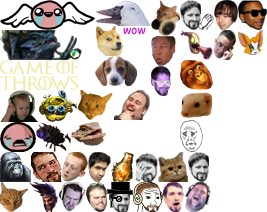
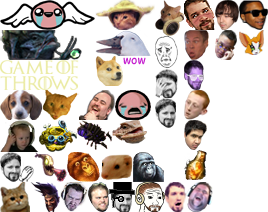
update KINGSLY emote

diff --git a/static/chat/css/style.min.css b/static/chat/css/style.min.css
@@ -1,1 +1,1 @@
-.nano{position:relative;width:100%;height:100%;overflow:hidden}.nano .content{position:absolute;overflow:scroll;overflow-x:hidden;top:0;right:0;bottom:0;left:0}.nano .content:focus{outline:0}.nano .content::-webkit-scrollbar{visibility:hidden}.has-scrollbar .content::-webkit-scrollbar{visibility:visible}.nano:hover>.pane,.pane.active,.pane.flashed{visibility:visible\9;opacity:.99}.nano>.pane{background:rgba(0,0,0,0.3);position:absolute;width:8px;right:5px;top:0;bottom:0;visibility:hidden\9;opacity:.01;-webkit-transition:.2s;-moz-transition:.2s;-o-transition:.2s;transition:.2s}.nano>.pane>.slider{background:#999;position:relative;margin:0 1px;-moz-border-radius:3px;-webkit-border-radius:3px;border-radius:3px}.nano>.pane>.slider:hover,.nano>.pane.active>.slider{background:#eee}.serif{font-family:"Trebuchet MS",sans-serif}.chat{position:relative;width:100%;height:100%;min-width:300px}.chat-output-frame{margin-bottom:35px;height:auto;width:100%;position:absolute;overflow:hidden;top:0;bottom:0;left:0;right:0}.chat-output{width:100%;height:100%}.chat-output .chat-lines{-webkit-backface-visibility:hidden;-webkit-perspective:1000}.chat-lines>div{clear:both;word-wrap:break-word;padding:3px 20px 3px 5px}.chat-lines>div .continue{user-select:none;color:#444}.chat-lines>div i.continue{user-select:none;color:#222}.chat-lines a.user{font-weight:bold;cursor:pointer;font-family:"Trebuchet MS",sans-serif}.chat-lines hr{margin:8px 0}.chat-lines .msg.emote{font-style:italic}.chat-input{width:100%;position:absolute;bottom:0}#chat-top-frame{position:absolute;top:0;left:0;right:0}#chat-bottom-frame{position:absolute;bottom:35px;left:0;right:0}.chat-input>div{margin:5px 0 0 0;background:#2e2e2e}.chat-tools-wrap{position:absolute;right:0;bottom:0;margin:0;user-select:none;-moz-user-select:none;-webkit-user-select:none}.chat-input-wrap{margin:0;margin-right:60px}#user-mute-form,#user-ban-form{margin-top:10px;display:none}#user-mute-form #banTimeLength{width:150px}.chat-input-control{padding:3px 0 0 5px;height:28px;margin:1px;border-radius:3px}.chat-input-control .input{background:0;resize:none;margin:0;padding:0;width:100%;border:0;border-radius:0;box-shadow:none;box-sizing:border-box}.chat-input-control .input:focus{box-shadow:none}.chat-tools-wrap>div{height:30px;overflow:hidden}.chat-tools-wrap .iconbtn{cursor:pointer;width:30px;height:28px;line-height:28px;float:left;display:block;text-align:center;color:#555}.chat-tools-wrap .iconbtn:hover{color:white}.chat-tools-wrap .iconbtn.active{color:white}.chat .chat-lines i[class^="icon-"]{width:16px;line-height:16px;height:16px;margin:0;opacity:1;display:inline-block;vertical-align:middle}.chat-input-control input,.chat-lines{font-family:Helvetica,"Trebuchet MS",Verdana,sans-serif;font-size:13px;line-height:1.5em}.chat-lines time{font-size:11px}.chat-lines a.externallink{color:#02c2ff}.chat-lines a.externallink:visited{color:#004d74}.chat-lines a.externallink:hover,.chat-lines a.externallink:focus{color:#08c}.chat-lines a.nsfw-link{border-bottom:1px dashed red}.chat .chat-lines time,.chat .user-msg i{display:none!important}.chat.chat-time .chat-lines time,.chat.chat-icons .user-msg i,.chat-lines i[class*='icon-subscriber']{display:inline-block!important}.chat-theme-dark{background:#080808;border-radius:0}.chat-theme-dark .chat-input-wrap{border:0}.chat-theme-dark .chat-lines time{color:#414141}.chat-theme-dark .chat-lines>div.highlight time,.chat-lines>div.highlight .continue{color:#838383}.chat-theme-dark .chat-lines>.command-msg,.chat-theme-dark .chat-lines>.error-msg,.chat-theme-dark .chat-lines>.status-msg,.chat-theme-dark .chat-lines>.ui-msg,.chat-theme-dark .chat-lines>.own-msg,.chat-theme-dark .chat-lines>.highlight{color:#dedede}.chat-theme-dark .chat-lines>.broadcast-msg .msg{color:#edea12}.chat-theme-dark .chat-lines>.own-msg{background:linear-gradient(to right,rgba(255,255,255,0.05) 0,rgba(255,255,255,0.05) 90%,rgba(255,255,255,0) 100%)}.chat-theme-dark .chat-lines>.highlight{background:linear-gradient(to right,rgba(0,150,255,0.5) 0,rgba(0,150,255,0) 100%)}.chat-theme-dark .chat-lines>.command-msg,.chat-theme-dark .chat-lines>.own-msg,.chat-theme-dark .chat-lines>.highlight .msg,.chat-theme-dark .chat-lines>.broadcast-msg .msg{text-shadow:1px 1px 0 rgba(0,0,0,0.5)}.chat-theme-dark .chat-input-control{background:#090909;border:0}.chat-theme-dark .chat-input-control input{color:#9e9e9e;background:#090909;text-shadow:none;outline:0}.chat-theme-dark input:input-placeholder{color:#222}.chat-theme-dark input::-webkit-input-placeholder{color:#222}.chat-theme-dark input:-moz-placeholder{color:#222}.chat-theme-dark input::-moz-placeholder{color:#222}.chat-theme-dark input:-ms-input-placeholder{color:#222}.chat-theme-dark .nano>.pane{background:rgba(0,0,0,0.3);width:8px;right:5px;top:5px;bottom:0}.chat-theme-dark .nano>.pane>.slider{background:#999}.chat-theme-dark .nano>.pane>.slider:hover,.chat-theme-dark .nano>.pane.active>.slider{background:#eee}.chat.focus-user .chat-lines>.user-msg{opacity:.3}.chat.focus-user .chat-lines>.user-msg.focused,.chat.focus-user .chat-lines>.user-msg.highlight{opacity:1}.chat .alert{margin-bottom:0;padding-top:4px;padding-bottom:4px;font-size:12px}.hint-popup,.user-tools{width:100%;top:-5px;left:0}.hint-popup>div,.user-tools>div,#chat-broadcasts>div{border-radius:4px;margin:5px 20px 5px 5px}.user-tools .user-tools-user{font-family:"Trebuchet MS",sans-serif}#chat-broadcasts .chat-emote{display:none}.hint-popup>div{box-shadow:0 2px 6px rgba(0,0,0,0.9);padding:0}.hint-popup a:hover{cursor:pointer;color:#6aa7f9}.hint-popup .hidehint,.hint-popup .nexthint{top:0;position:relative;float:right;right:-23px;line-height:20px;-webkit-touch-callout:none;-webkit-user-select:none;-khtml-user-select:none;-moz-user-select:none;-ms-user-select:none;user-select:none;color:#CCC}.hint-popup .hidehint{right:-27px}.hint-popup .hidehint:hover,.hint-popup .nexthint:hover{color:#111}.hint-popup .alert{padding-right:35px}.user-tools-wrap{margin-left:-5px}.user-tools-wrap>a{margin:0 5px}.chat-menu,.user-tools,.hint-popup{display:none;opacity:0}.chat-menu.active,.user-tools.active,.hint-popup.active{display:block;opacity:1}.chat-menu,.user-tools,.hint-popup{font-size:12px}.chat-menu{position:absolute;right:20px;bottom:-5px;width:240px}.chat-menu.active{bottom:0}.chat-menu h5,.user-tools h5{text-shadow:-1px -1px 0 rgba(0,0,0,0.25);user-select:none;-moz-user-select:none;-webkit-user-select:none;background:#4f4f4f;background:linear-gradient(to bottom,#4f4f4f 0,#2e2e2e 100%);border-bottom:1px solid #121212;margin:0;line-height:20px;display:block;padding:5px 15px 5px 10px;border-radius:4px 4px 0 0}.chat-menu .toolbar{width:100%;position:absolute;top:-31px;left:0}.chat-menu li,.chat-menu label{font-size:12px}.chat-menu label{font-weight:normal;margin:0 0 5px 0}.chat-menu label:hover{color:white}.chat-menu .list-wrap,.chat-menu .list-wrap .scrollable{max-height:330px;font-size:.9em}.chat-menu .list-wrap,.user-tools>div{box-shadow:0 2px 6px rgba(0,0,0,0.9);border-radius:0 0 4px 4px;background:rgba(25,25,25,0.9);padding:0}.chat-menu .list-wrap{margin-top:auto}.chat-menu ul,.user-tools .tools{padding:0 10px;margin:10px 0}.chat-menu ul>li:first-child h5{margin-top:0}.chat-menu ul li{text-overflow:ellipsis;overflow:hidden}#chat-user-list ul li{line-height:18px}#chat-user-list h6:first-child{margin-top:10px}#chat-user-list h6{font-weight:bold;margin:0 0 5px 5px}#chat-user-list hr{margin:5px 0}#chat-user-list ul{margin:0}#chat-user-list .user{cursor:pointer;font-family:"Trebuchet MS",sans-serif}.user-tools a#unignoreuser,.user-tools.user-ignored a#ignoreuser{display:none}.user-tools.user-ignored a#unignoreuser{display:inline-block}.chat-menu .nano>.pane{width:8px;right:3px;top:3px;bottom:3px}.chat-login-msg{display:inline-block;width:100%;padding:0 0 0 5px;line-height:30px;color:rgba(255,255,255,0.5);text-shadow:-1px -1px 0 rgba(0,0,0,0.25)}.chat-lines .emotecount{color:white;text-shadow:1px 1px 0 rgba(0,0,0,0.9);font-size:10px;line-height:10px;border-radius:10px;padding:3px 6px;margin:0 0 0 5px;background:#191919}.chat-lines .emotecount{text-shadow:none;animation:emotecount 600ms 1;-webkit-animation:emotecount 600ms 1}@keyframes emotecount{from{color:black;background-color:white}to{color:white;background-color:#333}}@-webkit-keyframes emotecount{from{color:black;background-color:white}to{color:white;background-color:#333}}.chat-lines .emotecount.x5>span{font-size:10px}.chat-lines .emotecount.x10>span{font-size:16px}.chat-lines .emotecount.x20>span{font-size:25px;vertical-align:middle}.chat-lines .emotecount.x30>span{font-size:35px;vertical-align:middle}.chat-lines .emotecount.x50>span{font-size:40px;vertical-align:middle}.chat a.user{color:#cacaca}.chat a.user:hover{color:#fafafa}.chat a.subscriber{color:#488ce7}.chat a.subscriber:hover{color:#6aa7f9}.chat a.flair3{color:#0060ff;text-shadow:1px 1px 0 black}.chat a.flair3:hover{color:#6aa7f9}.chat a.flair8{color:#a427d6;text-shadow:1px 1px 0 black}.chat a.flair8:hover{color:#e564f4}.chat a.vip{color:#4db524}.chat a.vip:hover{color:#4db524}.chat a.bot{color:#e79015}.chat a.bot:hover{color:#e79015}.chat a.admin{color:#b91010}.chat a.admin:hover{color:#f00}.chat .greentext{color:#6ca528}.chat-emote{display:inline-block;position:relative;top:10px;margin:0 2px}.chat-emote.chat-emote-OverRustle{animation:rustle 100ms 7;-webkit-animation:rustle 100ms 7}.chat-emote.chat-emote-OverRustle:hover{animation:rustle1 100ms infinite;-webkit-animation:rustle1 100ms infinite}@keyframes rustle{from{left:0}to{left:2px}}@-webkit-keyframes rustle{from{left:0}to{left:2px}}@keyframes rustle1{from{left:0}to{left:2px}}@-webkit-keyframes rustle1{from{left:0}to{left:2px}}.chat-emote.chat-emote-AngelThump,.chat-emote.chat-emote-Abathur,.chat-emote.chat-emote-GameOfThrows,.chat-emote.chat-emote-DuckerZ,.chat-emote.chat-emote-SoDoge,.chat-emote.chat-emote-FrankerZ,.chat-emote.chat-emote-FeedNathan,.chat-emote.chat-emote-Heimerdonger,.chat-emote.chat-emote-ASLAN,.chat-emote.chat-emote-LUL,.chat-emote.chat-emote-DJAslan,.chat-emote.chat-emote-BibleThump,.chat-emote.chat-emote-INFESTINY,.chat-emote.chat-emote-Hhhehhehe,.chat-emote.chat-emote-Klappa,.chat-emote.chat-emote-SURPRISE,.chat-emote.chat-emote-OverRustle,.chat-emote.chat-emote-FerretLOL,.chat-emote.chat-emote-SoSad,.chat-emote.chat-emote-NoTears,.chat-emote.chat-emote-DestiSenpaii,.chat-emote.chat-emote-WhoahDude,.chat-emote.chat-emote-WORTH,.chat-emote.chat-emote-UWOTM8,.chat-emote.chat-emote-TooSpicy,.chat-emote.chat-emote-Sippy,.chat-emote.chat-emote-OhKrappa,.chat-emote.chat-emote-MotherFuckinGame,.chat-emote.chat-emote-Kappa,.chat-emote.chat-emote-KINGSLY,.chat-emote.chat-emote-Dravewin,.chat-emote.chat-emote-Disgustiny,.chat-emote.chat-emote-DatGeoff,.chat-emote.chat-emote-DappaKappa,.chat-emote.chat-emote-DaFeels,.chat-emote.chat-emote-DURRSTINY,.chat-emote.chat-emote-DESBRO,.chat-emote.chat-emote-CallChad,.chat-emote.chat-emote-CallCatz,.chat-emote.chat-emote-BasedGod,.chat-emote.chat-emote-FIDGETLOL{background-image:url('../img/emoticons.png');background-repeat:no-repeat}.chat-emote.chat-emote-AngelThump{background-position:0 0;width:95px;height:30px;margin-top:-30px}.chat-emote.chat-emote-Abathur{background-position:0 -30px;width:82px;height:30px;margin-top:-30px}.chat-emote.chat-emote-GameOfThrows{background-position:0 -60px;width:79px;height:30px;margin-top:-30px}.chat-emote.chat-emote-DuckerZ{background-position:-95px 0;width:56px;height:26px;margin-top:-26px}.chat-emote.chat-emote-SoDoge{background-position:-95px -26px;width:51px;height:30px;margin-top:-30px}.chat-emote.chat-emote-FrankerZ{background-position:-95px -56px;width:42px;height:30px;margin-top:-30px}.chat-emote.chat-emote-FeedNathan{background-position:0 -90px;width:39px;height:32px;margin-top:-32px}.chat-emote.chat-emote-Heimerdonger{background-position:-39px -90px;width:38px;height:32px;margin-top:-32px}.chat-emote.chat-emote-ASLAN{background-position:-77px -90px;width:37px;height:30px;margin-top:-30px}.chat-emote.chat-emote-LUL{background-position:-114px -90px;width:36px;height:30px;margin-top:-30px}.chat-emote.chat-emote-DJAslan{background-position:-151px 0;width:29px;height:36px;margin-top:-36px}.chat-emote.chat-emote-BibleThump{background-position:0 -122px;width:36px;height:30px;margin-top:-30px}.chat-emote.chat-emote-INFESTINY{background-position:-36px -122px;width:35px;height:30px;margin-top:-30px}.chat-emote.chat-emote-Hhhehhehe{background-position:-71px -122px;width:35px;height:24px;margin-top:-24px}.chat-emote.chat-emote-Klappa{background-position:-180px 0;width:34px;height:30px;margin-top:-30px}.chat-emote.chat-emote-SURPRISE{background-position:-180px -30px;width:33px;height:30px;margin-top:-30px}.chat-emote.chat-emote-OverRustle{background-position:-180px -60px;width:33px;height:30px;margin-top:-30px}.chat-emote.chat-emote-FerretLOL{background-position:-180px -90px;width:33px;height:30px;margin-top:-30px}.chat-emote.chat-emote-SoSad{background-position:-180px -120px;width:23px;height:32px;margin-top:-32px}.chat-emote.chat-emote-NoTears{background-position:0 -152px;width:31px;height:30px;margin-top:-30px}.chat-emote.chat-emote-DestiSenpaii{background-position:-31px -152px;width:31px;height:30px;margin-top:-30px}.chat-emote.chat-emote-WhoahDude{background-position:-151px -36px;width:25px;height:30px;margin-top:-30px}.chat-emote.chat-emote-WORTH{background-position:-151px -66px;width:20px;height:30px;margin-top:-30px}.chat-emote.chat-emote-UWOTM8{background-position:-62px -152px;width:26px;height:30px;margin-top:-30px}.chat-emote.chat-emote-TooSpicy{background-position:-88px -152px;width:23px;height:30px;margin-top:-30px}.chat-emote.chat-emote-Sippy{background-position:-111px -152px;width:24px;height:30px;margin-top:-30px}.chat-emote.chat-emote-OhKrappa{background-position:-135px -152px;width:23px;height:30px;margin-top:-30px}.chat-emote.chat-emote-MotherFuckinGame{background-position:-158px -152px;width:30px;height:30px;margin-top:-30px}.chat-emote.chat-emote-Kappa{background-position:-188px -152px;width:21px;height:30px;margin-top:-30px}.chat-emote.chat-emote-KINGSLY{background-position:0 -182px;width:28px;height:30px;margin-top:-30px}.chat-emote.chat-emote-Dravewin{background-position:-28px -182px;width:30px;height:30px;margin-top:-30px}.chat-emote.chat-emote-Disgustiny{background-position:-58px -182px;width:28px;height:30px;margin-top:-30px}.chat-emote.chat-emote-DatGeoff{background-position:-86px -182px;width:21px;height:30px;margin-top:-30px}.chat-emote.chat-emote-DappaKappa{background-position:-107px -182px;width:26px;height:30px;margin-top:-30px}.chat-emote.chat-emote-DaFeels{background-position:-133px -182px;width:30px;height:30px;margin-top:-30px}.chat-emote.chat-emote-DURRSTINY{background-position:-163px -182px;width:21px;height:30px;margin-top:-30px}.chat-emote.chat-emote-DESBRO{background-position:-184px -182px;width:27px;height:30px;margin-top:-30px}.chat-emote.chat-emote-CallChad{background-position:-214px 0;width:24px;height:30px;margin-top:-30px}.chat-emote.chat-emote-CallCatz{background-position:-214px -30px;width:22px;height:30px;margin-top:-30px}.chat-emote.chat-emote-BasedGod{background-position:-238px 0;width:29px;height:30px;margin-top:-30px}.chat-emote.chat-emote-FIDGETLOL{background-position:-238px -30px;width:25px;height:25px;margin-top:-25px}.icon-subscriber,.icon-subscribert2,.icon-subscribert3,.icon-subscribert4{-webkit-transform:rotate(0deg);-webkit-transition:rotate .2s ease-in-out;-moz-transition:rotate .2s ease-in-out;-o-transition:rotate .2s ease-in-out;transition:rotate .2s ease-in-out}.icon-subscriber:hover,.icon-subscribert2:hover,.icon-subscribert3:hover,.icon-subscribert4:hover{-moz-animation:spin 3s infinite linear;-webkit-animation:spin 3s infinite linear}.icon-vip,.icon-trusted,.icon-subscribert4,.icon-subscribert3,.icon-subscribert2,.icon-subscriber,.icon-status,.icon-notable,.icon-moderator,.icon-info,.icon-evenotable,.icon-error,.icon-contributor,.icon-compchallenge,.icon-command,.icon-bot,.icon-admin{background-image:url('../img/icons.png');background-repeat:no-repeat}.icon-vip:hover{background-position:0 0;width:16px;height:16px}.icon-vip{background-position:-16px 0;width:16px;height:16px}.icon-trusted{background-position:0 -16px;width:16px;height:16px}.icon-subscribert4{background-position:-16px -16px;width:16px;height:16px}.icon-subscribert3{background-position:-32px 0;width:16px;height:16px}.icon-subscribert2{background-position:-32px -16px;width:16px;height:16px}.icon-subscriber{background-position:0 -32px;width:16px;height:16px}.icon-status{background-position:-16px -32px;width:16px;height:16px}.icon-notable{background-position:-32px -32px;width:16px;height:16px}.icon-moderator{background-position:-48px 0;width:16px;height:16px}.icon-info{background-position:-48px -16px;width:16px;height:16px}.icon-evenotable{background-position:-48px -32px;width:16px;height:16px}.icon-error{background-position:0 -48px;width:16px;height:16px}.icon-contributor{background-position:-16px -48px;width:16px;height:16px}.icon-compchallenge:hover{background-position:-32px -48px;width:16px;height:16px}.icon-compchallenge{background-position:-48px -48px;width:16px;height:16px}.icon-command{background-position:-64px 0;width:16px;height:16px}.icon-bot:hover{background-position:-64px -16px;width:16px;height:16px}.icon-bot{background-position:-64px -32px;width:16px;height:16px}.icon-admin:hover{background-position:-64px -48px;width:16px;height:16px}.icon-admin{background-position:0 -64px;width:16px;height:16px}
+.nano{position:relative;width:100%;height:100%;overflow:hidden}.nano .content{position:absolute;overflow:scroll;overflow-x:hidden;top:0;right:0;bottom:0;left:0}.nano .content:focus{outline:0}.nano .content::-webkit-scrollbar{visibility:hidden}.has-scrollbar .content::-webkit-scrollbar{visibility:visible}.nano:hover>.pane,.pane.active,.pane.flashed{visibility:visible\9;opacity:.99}.nano>.pane{background:rgba(0,0,0,0.3);position:absolute;width:8px;right:5px;top:0;bottom:0;visibility:hidden\9;opacity:.01;-webkit-transition:.2s;-moz-transition:.2s;-o-transition:.2s;transition:.2s}.nano>.pane>.slider{background:#999;position:relative;margin:0 1px;-moz-border-radius:3px;-webkit-border-radius:3px;border-radius:3px}.nano>.pane>.slider:hover,.nano>.pane.active>.slider{background:#eee}.serif{font-family:"Trebuchet MS",sans-serif}.chat{position:relative;width:100%;height:100%;min-width:300px}.chat-output-frame{margin-bottom:35px;height:auto;width:100%;position:absolute;overflow:hidden;top:0;bottom:0;left:0;right:0}.chat-output{width:100%;height:100%}.chat-output .chat-lines{-webkit-backface-visibility:hidden;-webkit-perspective:1000}.chat-lines>div{clear:both;word-wrap:break-word;padding:3px 20px 3px 5px}.chat-lines>div .continue{user-select:none;color:#444}.chat-lines>div i.continue{user-select:none;color:#222}.chat-lines a.user{font-weight:bold;cursor:pointer;font-family:"Trebuchet MS",sans-serif}.chat-lines hr{margin:8px 0}.chat-lines .msg.emote{font-style:italic}.chat-input{width:100%;position:absolute;bottom:0}#chat-top-frame{position:absolute;top:0;left:0;right:0}#chat-bottom-frame{position:absolute;bottom:35px;left:0;right:0}.chat-input>div{margin:5px 0 0 0;background:#2e2e2e}.chat-tools-wrap{position:absolute;right:0;bottom:0;margin:0;user-select:none;-moz-user-select:none;-webkit-user-select:none}.chat-input-wrap{margin:0;margin-right:60px}#user-mute-form,#user-ban-form{margin-top:10px;display:none}#user-mute-form #banTimeLength{width:150px}.chat-input-control{padding:3px 0 0 5px;height:28px;margin:1px;border-radius:3px}.chat-input-control .input{background:0;resize:none;margin:0;padding:0;width:100%;border:0;border-radius:0;box-shadow:none;box-sizing:border-box}.chat-input-control .input:focus{box-shadow:none}.chat-tools-wrap>div{height:30px;overflow:hidden}.chat-tools-wrap .iconbtn{cursor:pointer;width:30px;height:28px;line-height:28px;float:left;display:block;text-align:center;color:#555}.chat-tools-wrap .iconbtn:hover{color:white}.chat-tools-wrap .iconbtn.active{color:white}.chat .chat-lines i[class^="icon-"]{width:16px;line-height:16px;height:16px;margin:0;opacity:1;display:inline-block;vertical-align:middle}.chat-input-control input,.chat-lines{font-family:Helvetica,"Trebuchet MS",Verdana,sans-serif;font-size:13px;line-height:1.5em}.chat-lines time{font-size:11px}.chat-lines a.externallink{color:#02c2ff}.chat-lines a.externallink:visited{color:#004d74}.chat-lines a.externallink:hover,.chat-lines a.externallink:focus{color:#08c}.chat-lines a.nsfw-link{border-bottom:1px dashed red}.chat .chat-lines time,.chat .user-msg i{display:none!important}.chat.chat-time .chat-lines time,.chat.chat-icons .user-msg i,.chat-lines i[class*='icon-subscriber']{display:inline-block!important}.chat-theme-dark{background:#080808;border-radius:0}.chat-theme-dark .chat-input-wrap{border:0}.chat-theme-dark .chat-lines time{color:#414141}.chat-theme-dark .chat-lines>div.highlight time,.chat-lines>div.highlight .continue{color:#838383}.chat-theme-dark .chat-lines>.command-msg,.chat-theme-dark .chat-lines>.error-msg,.chat-theme-dark .chat-lines>.status-msg,.chat-theme-dark .chat-lines>.ui-msg,.chat-theme-dark .chat-lines>.own-msg,.chat-theme-dark .chat-lines>.highlight{color:#dedede}.chat-theme-dark .chat-lines>.broadcast-msg .msg{color:#edea12}.chat-theme-dark .chat-lines>.own-msg{background:linear-gradient(to right,rgba(255,255,255,0.05) 0,rgba(255,255,255,0.05) 90%,rgba(255,255,255,0) 100%)}.chat-theme-dark .chat-lines>.highlight{background:linear-gradient(to right,rgba(0,150,255,0.5) 0,rgba(0,150,255,0) 100%)}.chat-theme-dark .chat-lines>.command-msg,.chat-theme-dark .chat-lines>.own-msg,.chat-theme-dark .chat-lines>.highlight .msg,.chat-theme-dark .chat-lines>.broadcast-msg .msg{text-shadow:1px 1px 0 rgba(0,0,0,0.5)}.chat-theme-dark .chat-input-control{background:#090909;border:0}.chat-theme-dark .chat-input-control input{color:#9e9e9e;background:#090909;text-shadow:none;outline:0}.chat-theme-dark input:input-placeholder{color:#222}.chat-theme-dark input::-webkit-input-placeholder{color:#222}.chat-theme-dark input:-moz-placeholder{color:#222}.chat-theme-dark input::-moz-placeholder{color:#222}.chat-theme-dark input:-ms-input-placeholder{color:#222}.chat-theme-dark .nano>.pane{background:rgba(0,0,0,0.3);width:8px;right:5px;top:5px;bottom:0}.chat-theme-dark .nano>.pane>.slider{background:#999}.chat-theme-dark .nano>.pane>.slider:hover,.chat-theme-dark .nano>.pane.active>.slider{background:#eee}.chat.focus-user .chat-lines>.user-msg{opacity:.3}.chat.focus-user .chat-lines>.user-msg.focused,.chat.focus-user .chat-lines>.user-msg.highlight{opacity:1}.chat .alert{margin-bottom:0;padding-top:4px;padding-bottom:4px;font-size:12px}.hint-popup,.user-tools{width:100%;top:-5px;left:0}.hint-popup>div,.user-tools>div,#chat-broadcasts>div{border-radius:4px;margin:5px 20px 5px 5px}.user-tools .user-tools-user{font-family:"Trebuchet MS",sans-serif}#chat-broadcasts .chat-emote{display:none}.hint-popup>div{box-shadow:0 2px 6px rgba(0,0,0,0.9);padding:0}.hint-popup a:hover{cursor:pointer;color:#6aa7f9}.hint-popup .hidehint,.hint-popup .nexthint{top:0;position:relative;float:right;right:-23px;line-height:20px;-webkit-touch-callout:none;-webkit-user-select:none;-khtml-user-select:none;-moz-user-select:none;-ms-user-select:none;user-select:none;color:#CCC}.hint-popup .hidehint{right:-27px}.hint-popup .hidehint:hover,.hint-popup .nexthint:hover{color:#111}.hint-popup .alert{padding-right:35px}.user-tools-wrap{margin-left:-5px}.user-tools-wrap>a{margin:0 5px}.chat-menu,.user-tools,.hint-popup{display:none;opacity:0}.chat-menu.active,.user-tools.active,.hint-popup.active{display:block;opacity:1}.chat-menu,.user-tools,.hint-popup{font-size:12px}.chat-menu{position:absolute;right:20px;bottom:-5px;width:240px}.chat-menu.active{bottom:0}.chat-menu h5,.user-tools h5{text-shadow:-1px -1px 0 rgba(0,0,0,0.25);user-select:none;-moz-user-select:none;-webkit-user-select:none;background:#4f4f4f;background:linear-gradient(to bottom,#4f4f4f 0,#2e2e2e 100%);border-bottom:1px solid #121212;margin:0;line-height:20px;display:block;padding:5px 15px 5px 10px;border-radius:4px 4px 0 0}.chat-menu .toolbar{width:100%;position:absolute;top:-31px;left:0}.chat-menu li,.chat-menu label{font-size:12px}.chat-menu label{font-weight:normal;margin:0 0 5px 0}.chat-menu label:hover{color:white}.chat-menu .list-wrap,.chat-menu .list-wrap .scrollable{max-height:330px;font-size:.9em}.chat-menu .list-wrap,.user-tools>div{box-shadow:0 2px 6px rgba(0,0,0,0.9);border-radius:0 0 4px 4px;background:rgba(25,25,25,0.9);padding:0}.chat-menu .list-wrap{margin-top:auto}.chat-menu ul,.user-tools .tools{padding:0 10px;margin:10px 0}.chat-menu ul>li:first-child h5{margin-top:0}.chat-menu ul li{text-overflow:ellipsis;overflow:hidden}#chat-user-list ul li{line-height:18px}#chat-user-list h6:first-child{margin-top:10px}#chat-user-list h6{font-weight:bold;margin:0 0 5px 5px}#chat-user-list hr{margin:5px 0}#chat-user-list ul{margin:0}#chat-user-list .user{cursor:pointer;font-family:"Trebuchet MS",sans-serif}.user-tools a#unignoreuser,.user-tools.user-ignored a#ignoreuser{display:none}.user-tools.user-ignored a#unignoreuser{display:inline-block}.chat-menu .nano>.pane{width:8px;right:3px;top:3px;bottom:3px}.chat-login-msg{display:inline-block;width:100%;padding:0 0 0 5px;line-height:30px;color:rgba(255,255,255,0.5);text-shadow:-1px -1px 0 rgba(0,0,0,0.25)}.chat-lines .emotecount{color:white;text-shadow:1px 1px 0 rgba(0,0,0,0.9);font-size:10px;line-height:10px;border-radius:10px;padding:3px 6px;margin:0 0 0 5px;background:#191919}.chat-lines .emotecount{text-shadow:none;animation:emotecount 600ms 1;-webkit-animation:emotecount 600ms 1}@keyframes emotecount{from{color:black;background-color:white}to{color:white;background-color:#333}}@-webkit-keyframes emotecount{from{color:black;background-color:white}to{color:white;background-color:#333}}.chat-lines .emotecount.x5>span{font-size:10px}.chat-lines .emotecount.x10>span{font-size:16px}.chat-lines .emotecount.x20>span{font-size:25px;vertical-align:middle}.chat-lines .emotecount.x30>span{font-size:35px;vertical-align:middle}.chat-lines .emotecount.x50>span{font-size:40px;vertical-align:middle}.chat a.user{color:#cacaca}.chat a.user:hover{color:#fafafa}.chat a.subscriber{color:#488ce7}.chat a.subscriber:hover{color:#6aa7f9}.chat a.flair3{color:#0060ff;text-shadow:1px 1px 0 black}.chat a.flair3:hover{color:#6aa7f9}.chat a.flair8{color:#a427d6;text-shadow:1px 1px 0 black}.chat a.flair8:hover{color:#e564f4}.chat a.vip{color:#4db524}.chat a.vip:hover{color:#4db524}.chat a.bot{color:#e79015}.chat a.bot:hover{color:#e79015}.chat a.admin{color:#b91010}.chat a.admin:hover{color:#f00}.chat .greentext{color:#6ca528}.chat-emote{display:inline-block;position:relative;top:10px;margin:0 2px}.chat-emote.chat-emote-OverRustle{animation:rustle 100ms 7;-webkit-animation:rustle 100ms 7}.chat-emote.chat-emote-OverRustle:hover{animation:rustle1 100ms infinite;-webkit-animation:rustle1 100ms infinite}@keyframes rustle{from{left:0}to{left:2px}}@-webkit-keyframes rustle{from{left:0}to{left:2px}}@keyframes rustle1{from{left:0}to{left:2px}}@-webkit-keyframes rustle1{from{left:0}to{left:2px}}.chat-emote.chat-emote-AngelThump,.chat-emote.chat-emote-Abathur,.chat-emote.chat-emote-GameOfThrows,.chat-emote.chat-emote-KINGSLY,.chat-emote.chat-emote-DuckerZ,.chat-emote.chat-emote-SoDoge,.chat-emote.chat-emote-FrankerZ,.chat-emote.chat-emote-FeedNathan,.chat-emote.chat-emote-Heimerdonger,.chat-emote.chat-emote-ASLAN,.chat-emote.chat-emote-LUL,.chat-emote.chat-emote-DJAslan,.chat-emote.chat-emote-BibleThump,.chat-emote.chat-emote-INFESTINY,.chat-emote.chat-emote-Hhhehhehe,.chat-emote.chat-emote-Klappa,.chat-emote.chat-emote-SURPRISE,.chat-emote.chat-emote-OverRustle,.chat-emote.chat-emote-FerretLOL,.chat-emote.chat-emote-SoSad,.chat-emote.chat-emote-NoTears,.chat-emote.chat-emote-DestiSenpaii,.chat-emote.chat-emote-WhoahDude,.chat-emote.chat-emote-WORTH,.chat-emote.chat-emote-UWOTM8,.chat-emote.chat-emote-TooSpicy,.chat-emote.chat-emote-Sippy,.chat-emote.chat-emote-OhKrappa,.chat-emote.chat-emote-MotherFuckinGame,.chat-emote.chat-emote-Kappa,.chat-emote.chat-emote-Dravewin,.chat-emote.chat-emote-Disgustiny,.chat-emote.chat-emote-DatGeoff,.chat-emote.chat-emote-DappaKappa,.chat-emote.chat-emote-DaFeels,.chat-emote.chat-emote-DURRSTINY,.chat-emote.chat-emote-DESBRO,.chat-emote.chat-emote-CallChad,.chat-emote.chat-emote-CallCatz,.chat-emote.chat-emote-BasedGod,.chat-emote.chat-emote-FIDGETLOL{background-image:url('../img/emoticons.png');background-repeat:no-repeat}.chat-emote.chat-emote-AngelThump{background-position:0 0;width:95px;height:30px;margin-top:-30px}.chat-emote.chat-emote-Abathur{background-position:0 -30px;width:82px;height:30px;margin-top:-30px}.chat-emote.chat-emote-GameOfThrows{background-position:0 -60px;width:79px;height:30px;margin-top:-30px}.chat-emote.chat-emote-KINGSLY{background-position:-95px 0;width:60px;height:30px;margin-top:-30px}.chat-emote.chat-emote-DuckerZ{background-position:-95px -30px;width:56px;height:26px;margin-top:-26px}.chat-emote.chat-emote-SoDoge{background-position:-95px -56px;width:51px;height:30px;margin-top:-30px}.chat-emote.chat-emote-FrankerZ{background-position:0 -90px;width:42px;height:30px;margin-top:-30px}.chat-emote.chat-emote-FeedNathan{background-position:0 -120px;width:39px;height:32px;margin-top:-32px}.chat-emote.chat-emote-Heimerdonger{background-position:-39px -120px;width:38px;height:32px;margin-top:-32px}.chat-emote.chat-emote-ASLAN{background-position:-42px -90px;width:37px;height:30px;margin-top:-30px}.chat-emote.chat-emote-LUL{background-position:-79px -90px;width:36px;height:30px;margin-top:-30px}.chat-emote.chat-emote-DJAslan{background-position:-155px 0;width:29px;height:36px;margin-top:-36px}.chat-emote.chat-emote-BibleThump{background-position:-115px -90px;width:36px;height:30px;margin-top:-30px}.chat-emote.chat-emote-INFESTINY{background-position:-77px -120px;width:35px;height:30px;margin-top:-30px}.chat-emote.chat-emote-Hhhehhehe{background-position:-112px -120px;width:35px;height:24px;margin-top:-24px}.chat-emote.chat-emote-Klappa{background-position:0 -152px;width:34px;height:30px;margin-top:-30px}.chat-emote.chat-emote-SURPRISE{background-position:-34px -152px;width:33px;height:30px;margin-top:-30px}.chat-emote.chat-emote-OverRustle{background-position:-67px -152px;width:33px;height:30px;margin-top:-30px}.chat-emote.chat-emote-FerretLOL{background-position:-100px -152px;width:33px;height:30px;margin-top:-30px}.chat-emote.chat-emote-SoSad{background-position:-155px -36px;width:23px;height:32px;margin-top:-32px}.chat-emote.chat-emote-NoTears{background-position:-133px -152px;width:31px;height:30px;margin-top:-30px}.chat-emote.chat-emote-DestiSenpaii{background-position:-184px 0;width:31px;height:30px;margin-top:-30px}.chat-emote.chat-emote-WhoahDude{background-position:-184px -30px;width:25px;height:30px;margin-top:-30px}.chat-emote.chat-emote-WORTH{background-position:-184px -60px;width:20px;height:30px;margin-top:-30px}.chat-emote.chat-emote-UWOTM8{background-position:-184px -90px;width:26px;height:30px;margin-top:-30px}.chat-emote.chat-emote-TooSpicy{background-position:-184px -120px;width:23px;height:30px;margin-top:-30px}.chat-emote.chat-emote-Sippy{background-position:-184px -150px;width:24px;height:30px;margin-top:-30px}.chat-emote.chat-emote-OhKrappa{background-position:-155px -68px;width:23px;height:30px;margin-top:-30px}.chat-emote.chat-emote-MotherFuckinGame{background-position:0 -182px;width:30px;height:30px;margin-top:-30px}.chat-emote.chat-emote-Kappa{background-position:-155px -98px;width:21px;height:30px;margin-top:-30px}.chat-emote.chat-emote-Dravewin{background-position:-30px -182px;width:30px;height:30px;margin-top:-30px}.chat-emote.chat-emote-Disgustiny{background-position:-60px -182px;width:28px;height:30px;margin-top:-30px}.chat-emote.chat-emote-DatGeoff{background-position:-88px -182px;width:21px;height:30px;margin-top:-30px}.chat-emote.chat-emote-DappaKappa{background-position:-109px -182px;width:26px;height:30px;margin-top:-30px}.chat-emote.chat-emote-DaFeels{background-position:-135px -182px;width:30px;height:30px;margin-top:-30px}.chat-emote.chat-emote-DURRSTINY{background-position:-165px -182px;width:21px;height:30px;margin-top:-30px}.chat-emote.chat-emote-DESBRO{background-position:-186px -182px;width:27px;height:30px;margin-top:-30px}.chat-emote.chat-emote-CallChad{background-position:-215px 0;width:24px;height:30px;margin-top:-30px}.chat-emote.chat-emote-CallCatz{background-position:-215px -30px;width:22px;height:30px;margin-top:-30px}.chat-emote.chat-emote-BasedGod{background-position:-239px 0;width:29px;height:30px;margin-top:-30px}.chat-emote.chat-emote-FIDGETLOL{background-position:-239px -30px;width:25px;height:25px;margin-top:-25px}.icon-subscriber,.icon-subscribert2,.icon-subscribert3,.icon-subscribert4{-webkit-transform:rotate(0deg);-webkit-transition:rotate .2s ease-in-out;-moz-transition:rotate .2s ease-in-out;-o-transition:rotate .2s ease-in-out;transition:rotate .2s ease-in-out}.icon-subscriber:hover,.icon-subscribert2:hover,.icon-subscribert3:hover,.icon-subscribert4:hover{-moz-animation:spin 3s infinite linear;-webkit-animation:spin 3s infinite linear}.icon-vip,.icon-trusted,.icon-subscribert4,.icon-subscribert3,.icon-subscribert2,.icon-subscriber,.icon-status,.icon-notable,.icon-moderator,.icon-info,.icon-evenotable,.icon-error,.icon-contributor,.icon-compchallenge,.icon-command,.icon-bot,.icon-admin{background-image:url('../img/icons.png');background-repeat:no-repeat}.icon-vip:hover{background-position:0 0;width:16px;height:16px}.icon-vip{background-position:-16px 0;width:16px;height:16px}.icon-trusted{background-position:0 -16px;width:16px;height:16px}.icon-subscribert4{background-position:-16px -16px;width:16px;height:16px}.icon-subscribert3{background-position:-32px 0;width:16px;height:16px}.icon-subscribert2{background-position:-32px -16px;width:16px;height:16px}.icon-subscriber{background-position:0 -32px;width:16px;height:16px}.icon-status{background-position:-16px -32px;width:16px;height:16px}.icon-notable{background-position:-32px -32px;width:16px;height:16px}.icon-moderator{background-position:-48px 0;width:16px;height:16px}.icon-info{background-position:-48px -16px;width:16px;height:16px}.icon-evenotable{background-position:-48px -32px;width:16px;height:16px}.icon-error{background-position:0 -48px;width:16px;height:16px}.icon-contributor{background-position:-16px -48px;width:16px;height:16px}.icon-compchallenge:hover{background-position:-32px -48px;width:16px;height:16px}.icon-compchallenge{background-position:-48px -48px;width:16px;height:16px}.icon-command{background-position:-64px 0;width:16px;height:16px}.icon-bot:hover{background-position:-64px -16px;width:16px;height:16px}.icon-bot{background-position:-64px -32px;width:16px;height:16px}.icon-admin:hover{background-position:-64px -48px;width:16px;height:16px}.icon-admin{background-position:0 -64px;width:16px;height:16px}

diff --git a/static/chat/css/emoticons.css b/static/chat/css/emoticons.css
@@ -1,1 +1,1 @@
-.chat-emote{display:inline-block;position:relative;top:10px;margin:0 2px}.chat-emote.chat-emote-OverRustle{animation:rustle 100ms 7;-webkit-animation:rustle 100ms 7}.chat-emote.chat-emote-OverRustle:hover{animation:rustle1 100ms infinite;-webkit-animation:rustle1 100ms infinite}@keyframes rustle{from{left:0}to{left:2px}}@-webkit-keyframes rustle{from{left:0}to{left:2px}}@keyframes rustle1{from{left:0}to{left:2px}}@-webkit-keyframes rustle1{from{left:0}to{left:2px}}.chat-emote.chat-emote-AngelThump,.chat-emote.chat-emote-Abathur,.chat-emote.chat-emote-GameOfThrows,.chat-emote.chat-emote-DuckerZ,.chat-emote.chat-emote-SoDoge,.chat-emote.chat-emote-FrankerZ,.chat-emote.chat-emote-FeedNathan,.chat-emote.chat-emote-Heimerdonger,.chat-emote.chat-emote-ASLAN,.chat-emote.chat-emote-LUL,.chat-emote.chat-emote-DJAslan,.chat-emote.chat-emote-BibleThump,.chat-emote.chat-emote-INFESTINY,.chat-emote.chat-emote-Hhhehhehe,.chat-emote.chat-emote-Klappa,.chat-emote.chat-emote-SURPRISE,.chat-emote.chat-emote-OverRustle,.chat-emote.chat-emote-FerretLOL,.chat-emote.chat-emote-SoSad,.chat-emote.chat-emote-NoTears,.chat-emote.chat-emote-DestiSenpaii,.chat-emote.chat-emote-WhoahDude,.chat-emote.chat-emote-WORTH,.chat-emote.chat-emote-UWOTM8,.chat-emote.chat-emote-TooSpicy,.chat-emote.chat-emote-Sippy,.chat-emote.chat-emote-OhKrappa,.chat-emote.chat-emote-MotherFuckinGame,.chat-emote.chat-emote-Kappa,.chat-emote.chat-emote-KINGSLY,.chat-emote.chat-emote-Dravewin,.chat-emote.chat-emote-Disgustiny,.chat-emote.chat-emote-DatGeoff,.chat-emote.chat-emote-DappaKappa,.chat-emote.chat-emote-DaFeels,.chat-emote.chat-emote-DURRSTINY,.chat-emote.chat-emote-DESBRO,.chat-emote.chat-emote-CallChad,.chat-emote.chat-emote-CallCatz,.chat-emote.chat-emote-BasedGod,.chat-emote.chat-emote-FIDGETLOL{background-image:url('../img/emoticons.png');background-repeat:no-repeat}.chat-emote.chat-emote-AngelThump{background-position:0 0;width:95px;height:30px;margin-top:-30px}.chat-emote.chat-emote-Abathur{background-position:0 -30px;width:82px;height:30px;margin-top:-30px}.chat-emote.chat-emote-GameOfThrows{background-position:0 -60px;width:79px;height:30px;margin-top:-30px}.chat-emote.chat-emote-DuckerZ{background-position:-95px 0;width:56px;height:26px;margin-top:-26px}.chat-emote.chat-emote-SoDoge{background-position:-95px -26px;width:51px;height:30px;margin-top:-30px}.chat-emote.chat-emote-FrankerZ{background-position:-95px -56px;width:42px;height:30px;margin-top:-30px}.chat-emote.chat-emote-FeedNathan{background-position:0 -90px;width:39px;height:32px;margin-top:-32px}.chat-emote.chat-emote-Heimerdonger{background-position:-39px -90px;width:38px;height:32px;margin-top:-32px}.chat-emote.chat-emote-ASLAN{background-position:-77px -90px;width:37px;height:30px;margin-top:-30px}.chat-emote.chat-emote-LUL{background-position:-114px -90px;width:36px;height:30px;margin-top:-30px}.chat-emote.chat-emote-DJAslan{background-position:-151px 0;width:29px;height:36px;margin-top:-36px}.chat-emote.chat-emote-BibleThump{background-position:0 -122px;width:36px;height:30px;margin-top:-30px}.chat-emote.chat-emote-INFESTINY{background-position:-36px -122px;width:35px;height:30px;margin-top:-30px}.chat-emote.chat-emote-Hhhehhehe{background-position:-71px -122px;width:35px;height:24px;margin-top:-24px}.chat-emote.chat-emote-Klappa{background-position:-180px 0;width:34px;height:30px;margin-top:-30px}.chat-emote.chat-emote-SURPRISE{background-position:-180px -30px;width:33px;height:30px;margin-top:-30px}.chat-emote.chat-emote-OverRustle{background-position:-180px -60px;width:33px;height:30px;margin-top:-30px}.chat-emote.chat-emote-FerretLOL{background-position:-180px -90px;width:33px;height:30px;margin-top:-30px}.chat-emote.chat-emote-SoSad{background-position:-180px -120px;width:23px;height:32px;margin-top:-32px}.chat-emote.chat-emote-NoTears{background-position:0 -152px;width:31px;height:30px;margin-top:-30px}.chat-emote.chat-emote-DestiSenpaii{background-position:-31px -152px;width:31px;height:30px;margin-top:-30px}.chat-emote.chat-emote-WhoahDude{background-position:-151px -36px;width:25px;height:30px;margin-top:-30px}.chat-emote.chat-emote-WORTH{background-position:-151px -66px;width:20px;height:30px;margin-top:-30px}.chat-emote.chat-emote-UWOTM8{background-position:-62px -152px;width:26px;height:30px;margin-top:-30px}.chat-emote.chat-emote-TooSpicy{background-position:-88px -152px;width:23px;height:30px;margin-top:-30px}.chat-emote.chat-emote-Sippy{background-position:-111px -152px;width:24px;height:30px;margin-top:-30px}.chat-emote.chat-emote-OhKrappa{background-position:-135px -152px;width:23px;height:30px;margin-top:-30px}.chat-emote.chat-emote-MotherFuckinGame{background-position:-158px -152px;width:30px;height:30px;margin-top:-30px}.chat-emote.chat-emote-Kappa{background-position:-188px -152px;width:21px;height:30px;margin-top:-30px}.chat-emote.chat-emote-KINGSLY{background-position:0 -182px;width:28px;height:30px;margin-top:-30px}.chat-emote.chat-emote-Dravewin{background-position:-28px -182px;width:30px;height:30px;margin-top:-30px}.chat-emote.chat-emote-Disgustiny{background-position:-58px -182px;width:28px;height:30px;margin-top:-30px}.chat-emote.chat-emote-DatGeoff{background-position:-86px -182px;width:21px;height:30px;margin-top:-30px}.chat-emote.chat-emote-DappaKappa{background-position:-107px -182px;width:26px;height:30px;margin-top:-30px}.chat-emote.chat-emote-DaFeels{background-position:-133px -182px;width:30px;height:30px;margin-top:-30px}.chat-emote.chat-emote-DURRSTINY{background-position:-163px -182px;width:21px;height:30px;margin-top:-30px}.chat-emote.chat-emote-DESBRO{background-position:-184px -182px;width:27px;height:30px;margin-top:-30px}.chat-emote.chat-emote-CallChad{background-position:-214px 0;width:24px;height:30px;margin-top:-30px}.chat-emote.chat-emote-CallCatz{background-position:-214px -30px;width:22px;height:30px;margin-top:-30px}.chat-emote.chat-emote-BasedGod{background-position:-238px 0;width:29px;height:30px;margin-top:-30px}.chat-emote.chat-emote-FIDGETLOL{background-position:-238px -30px;width:25px;height:25px;margin-top:-25px}
+.chat-emote{display:inline-block;position:relative;top:10px;margin:0 2px}.chat-emote.chat-emote-OverRustle{animation:rustle 100ms 7;-webkit-animation:rustle 100ms 7}.chat-emote.chat-emote-OverRustle:hover{animation:rustle1 100ms infinite;-webkit-animation:rustle1 100ms infinite}@keyframes rustle{from{left:0}to{left:2px}}@-webkit-keyframes rustle{from{left:0}to{left:2px}}@keyframes rustle1{from{left:0}to{left:2px}}@-webkit-keyframes rustle1{from{left:0}to{left:2px}}.chat-emote.chat-emote-AngelThump,.chat-emote.chat-emote-Abathur,.chat-emote.chat-emote-GameOfThrows,.chat-emote.chat-emote-KINGSLY,.chat-emote.chat-emote-DuckerZ,.chat-emote.chat-emote-SoDoge,.chat-emote.chat-emote-FrankerZ,.chat-emote.chat-emote-FeedNathan,.chat-emote.chat-emote-Heimerdonger,.chat-emote.chat-emote-ASLAN,.chat-emote.chat-emote-LUL,.chat-emote.chat-emote-DJAslan,.chat-emote.chat-emote-BibleThump,.chat-emote.chat-emote-INFESTINY,.chat-emote.chat-emote-Hhhehhehe,.chat-emote.chat-emote-Klappa,.chat-emote.chat-emote-SURPRISE,.chat-emote.chat-emote-OverRustle,.chat-emote.chat-emote-FerretLOL,.chat-emote.chat-emote-SoSad,.chat-emote.chat-emote-NoTears,.chat-emote.chat-emote-DestiSenpaii,.chat-emote.chat-emote-WhoahDude,.chat-emote.chat-emote-WORTH,.chat-emote.chat-emote-UWOTM8,.chat-emote.chat-emote-TooSpicy,.chat-emote.chat-emote-Sippy,.chat-emote.chat-emote-OhKrappa,.chat-emote.chat-emote-MotherFuckinGame,.chat-emote.chat-emote-Kappa,.chat-emote.chat-emote-Dravewin,.chat-emote.chat-emote-Disgustiny,.chat-emote.chat-emote-DatGeoff,.chat-emote.chat-emote-DappaKappa,.chat-emote.chat-emote-DaFeels,.chat-emote.chat-emote-DURRSTINY,.chat-emote.chat-emote-DESBRO,.chat-emote.chat-emote-CallChad,.chat-emote.chat-emote-CallCatz,.chat-emote.chat-emote-BasedGod,.chat-emote.chat-emote-FIDGETLOL{background-image:url('../img/emoticons.png');background-repeat:no-repeat}.chat-emote.chat-emote-AngelThump{background-position:0 0;width:95px;height:30px;margin-top:-30px}.chat-emote.chat-emote-Abathur{background-position:0 -30px;width:82px;height:30px;margin-top:-30px}.chat-emote.chat-emote-GameOfThrows{background-position:0 -60px;width:79px;height:30px;margin-top:-30px}.chat-emote.chat-emote-KINGSLY{background-position:-95px 0;width:60px;height:30px;margin-top:-30px}.chat-emote.chat-emote-DuckerZ{background-position:-95px -30px;width:56px;height:26px;margin-top:-26px}.chat-emote.chat-emote-SoDoge{background-position:-95px -56px;width:51px;height:30px;margin-top:-30px}.chat-emote.chat-emote-FrankerZ{background-position:0 -90px;width:42px;height:30px;margin-top:-30px}.chat-emote.chat-emote-FeedNathan{background-position:0 -120px;width:39px;height:32px;margin-top:-32px}.chat-emote.chat-emote-Heimerdonger{background-position:-39px -120px;width:38px;height:32px;margin-top:-32px}.chat-emote.chat-emote-ASLAN{background-position:-42px -90px;width:37px;height:30px;margin-top:-30px}.chat-emote.chat-emote-LUL{background-position:-79px -90px;width:36px;height:30px;margin-top:-30px}.chat-emote.chat-emote-DJAslan{background-position:-155px 0;width:29px;height:36px;margin-top:-36px}.chat-emote.chat-emote-BibleThump{background-position:-115px -90px;width:36px;height:30px;margin-top:-30px}.chat-emote.chat-emote-INFESTINY{background-position:-77px -120px;width:35px;height:30px;margin-top:-30px}.chat-emote.chat-emote-Hhhehhehe{background-position:-112px -120px;width:35px;height:24px;margin-top:-24px}.chat-emote.chat-emote-Klappa{background-position:0 -152px;width:34px;height:30px;margin-top:-30px}.chat-emote.chat-emote-SURPRISE{background-position:-34px -152px;width:33px;height:30px;margin-top:-30px}.chat-emote.chat-emote-OverRustle{background-position:-67px -152px;width:33px;height:30px;margin-top:-30px}.chat-emote.chat-emote-FerretLOL{background-position:-100px -152px;width:33px;height:30px;margin-top:-30px}.chat-emote.chat-emote-SoSad{background-position:-155px -36px;width:23px;height:32px;margin-top:-32px}.chat-emote.chat-emote-NoTears{background-position:-133px -152px;width:31px;height:30px;margin-top:-30px}.chat-emote.chat-emote-DestiSenpaii{background-position:-184px 0;width:31px;height:30px;margin-top:-30px}.chat-emote.chat-emote-WhoahDude{background-position:-184px -30px;width:25px;height:30px;margin-top:-30px}.chat-emote.chat-emote-WORTH{background-position:-184px -60px;width:20px;height:30px;margin-top:-30px}.chat-emote.chat-emote-UWOTM8{background-position:-184px -90px;width:26px;height:30px;margin-top:-30px}.chat-emote.chat-emote-TooSpicy{background-position:-184px -120px;width:23px;height:30px;margin-top:-30px}.chat-emote.chat-emote-Sippy{background-position:-184px -150px;width:24px;height:30px;margin-top:-30px}.chat-emote.chat-emote-OhKrappa{background-position:-155px -68px;width:23px;height:30px;margin-top:-30px}.chat-emote.chat-emote-MotherFuckinGame{background-position:0 -182px;width:30px;height:30px;margin-top:-30px}.chat-emote.chat-emote-Kappa{background-position:-155px -98px;width:21px;height:30px;margin-top:-30px}.chat-emote.chat-emote-Dravewin{background-position:-30px -182px;width:30px;height:30px;margin-top:-30px}.chat-emote.chat-emote-Disgustiny{background-position:-60px -182px;width:28px;height:30px;margin-top:-30px}.chat-emote.chat-emote-DatGeoff{background-position:-88px -182px;width:21px;height:30px;margin-top:-30px}.chat-emote.chat-emote-DappaKappa{background-position:-109px -182px;width:26px;height:30px;margin-top:-30px}.chat-emote.chat-emote-DaFeels{background-position:-135px -182px;width:30px;height:30px;margin-top:-30px}.chat-emote.chat-emote-DURRSTINY{background-position:-165px -182px;width:21px;height:30px;margin-top:-30px}.chat-emote.chat-emote-DESBRO{background-position:-186px -182px;width:27px;height:30px;margin-top:-30px}.chat-emote.chat-emote-CallChad{background-position:-215px 0;width:24px;height:30px;margin-top:-30px}.chat-emote.chat-emote-CallCatz{background-position:-215px -30px;width:22px;height:30px;margin-top:-30px}.chat-emote.chat-emote-BasedGod{background-position:-239px 0;width:29px;height:30px;margin-top:-30px}.chat-emote.chat-emote-FIDGETLOL{background-position:-239px -30px;width:25px;height:25px;margin-top:-25px}
